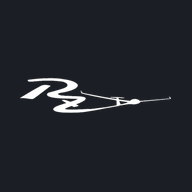
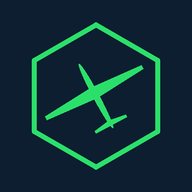
v1.42: nuove icone dell'app nello stile di RZ Ballast Archive (esagono verde su blu, aliante)
Claude-Session: https://claude.ai/code/session_017oEtEHFdLYoz4EkiRkguVd

Changed region(s): [[0.0938, 0.0938, 0.9062, 0.9062]]

diff --git a/index.html b/index.html
@@ -466,7 +466,7 @@
       <input type="file" id="logoFile" accept="image/*" style="display:none">
     </div>
     <div class="center">
-      <div class="apptitle">Flight Dashboard <span class="ver">v1.41</span></div>
+      <div class="apptitle">Flight Dashboard <span class="ver">v1.42</span></div>
       <div class="appsub" id="modelLine" data-i18n="tagline">analisi log di volo</div>
     </div>
     <div class="right">

diff --git a/sw.js b/sw.js
@@ -2,7 +2,7 @@
    Strategia "stale-while-revalidate": risponde subito dalla cache e intanto
    scarica la versione aggiornata, che sarà usata all'apertura successiva.
    Cambiare CACHE a ogni versione per eliminare i file vecchi. */
-const CACHE = "rz-fd-v1.41";
+const CACHE = "rz-fd-v1.42";
 const SHELL = [
   "./",
   "./index.html",

diff --git a/README.md b/README.md
@@ -4,7 +4,7 @@ Dashboard **single-file HTML** per analizzare i log di volo di veleggiatori radi
 Nessuna dipendenza, nessun build per usarla: è un unico file `.html` che gira **offline** aprendolo in un browser (Chrome/Edge/Firefox/Safari).
 È anche una **PWA**: da iPhone/iPad/Android si installa sulla schermata Home e funziona senza rete.
 
-- Versione corrente: **v1.41**
+- Versione corrente: **v1.42**
 - Online (installabile come app): https://rzannori.github.io/rz-flight-dashboard/
 - File di riferimento: `index.html` (versioni marcate con tag git `vX.Y`)
 - Autore/owner: Roberto (RZ) — progetto personale modellismo
